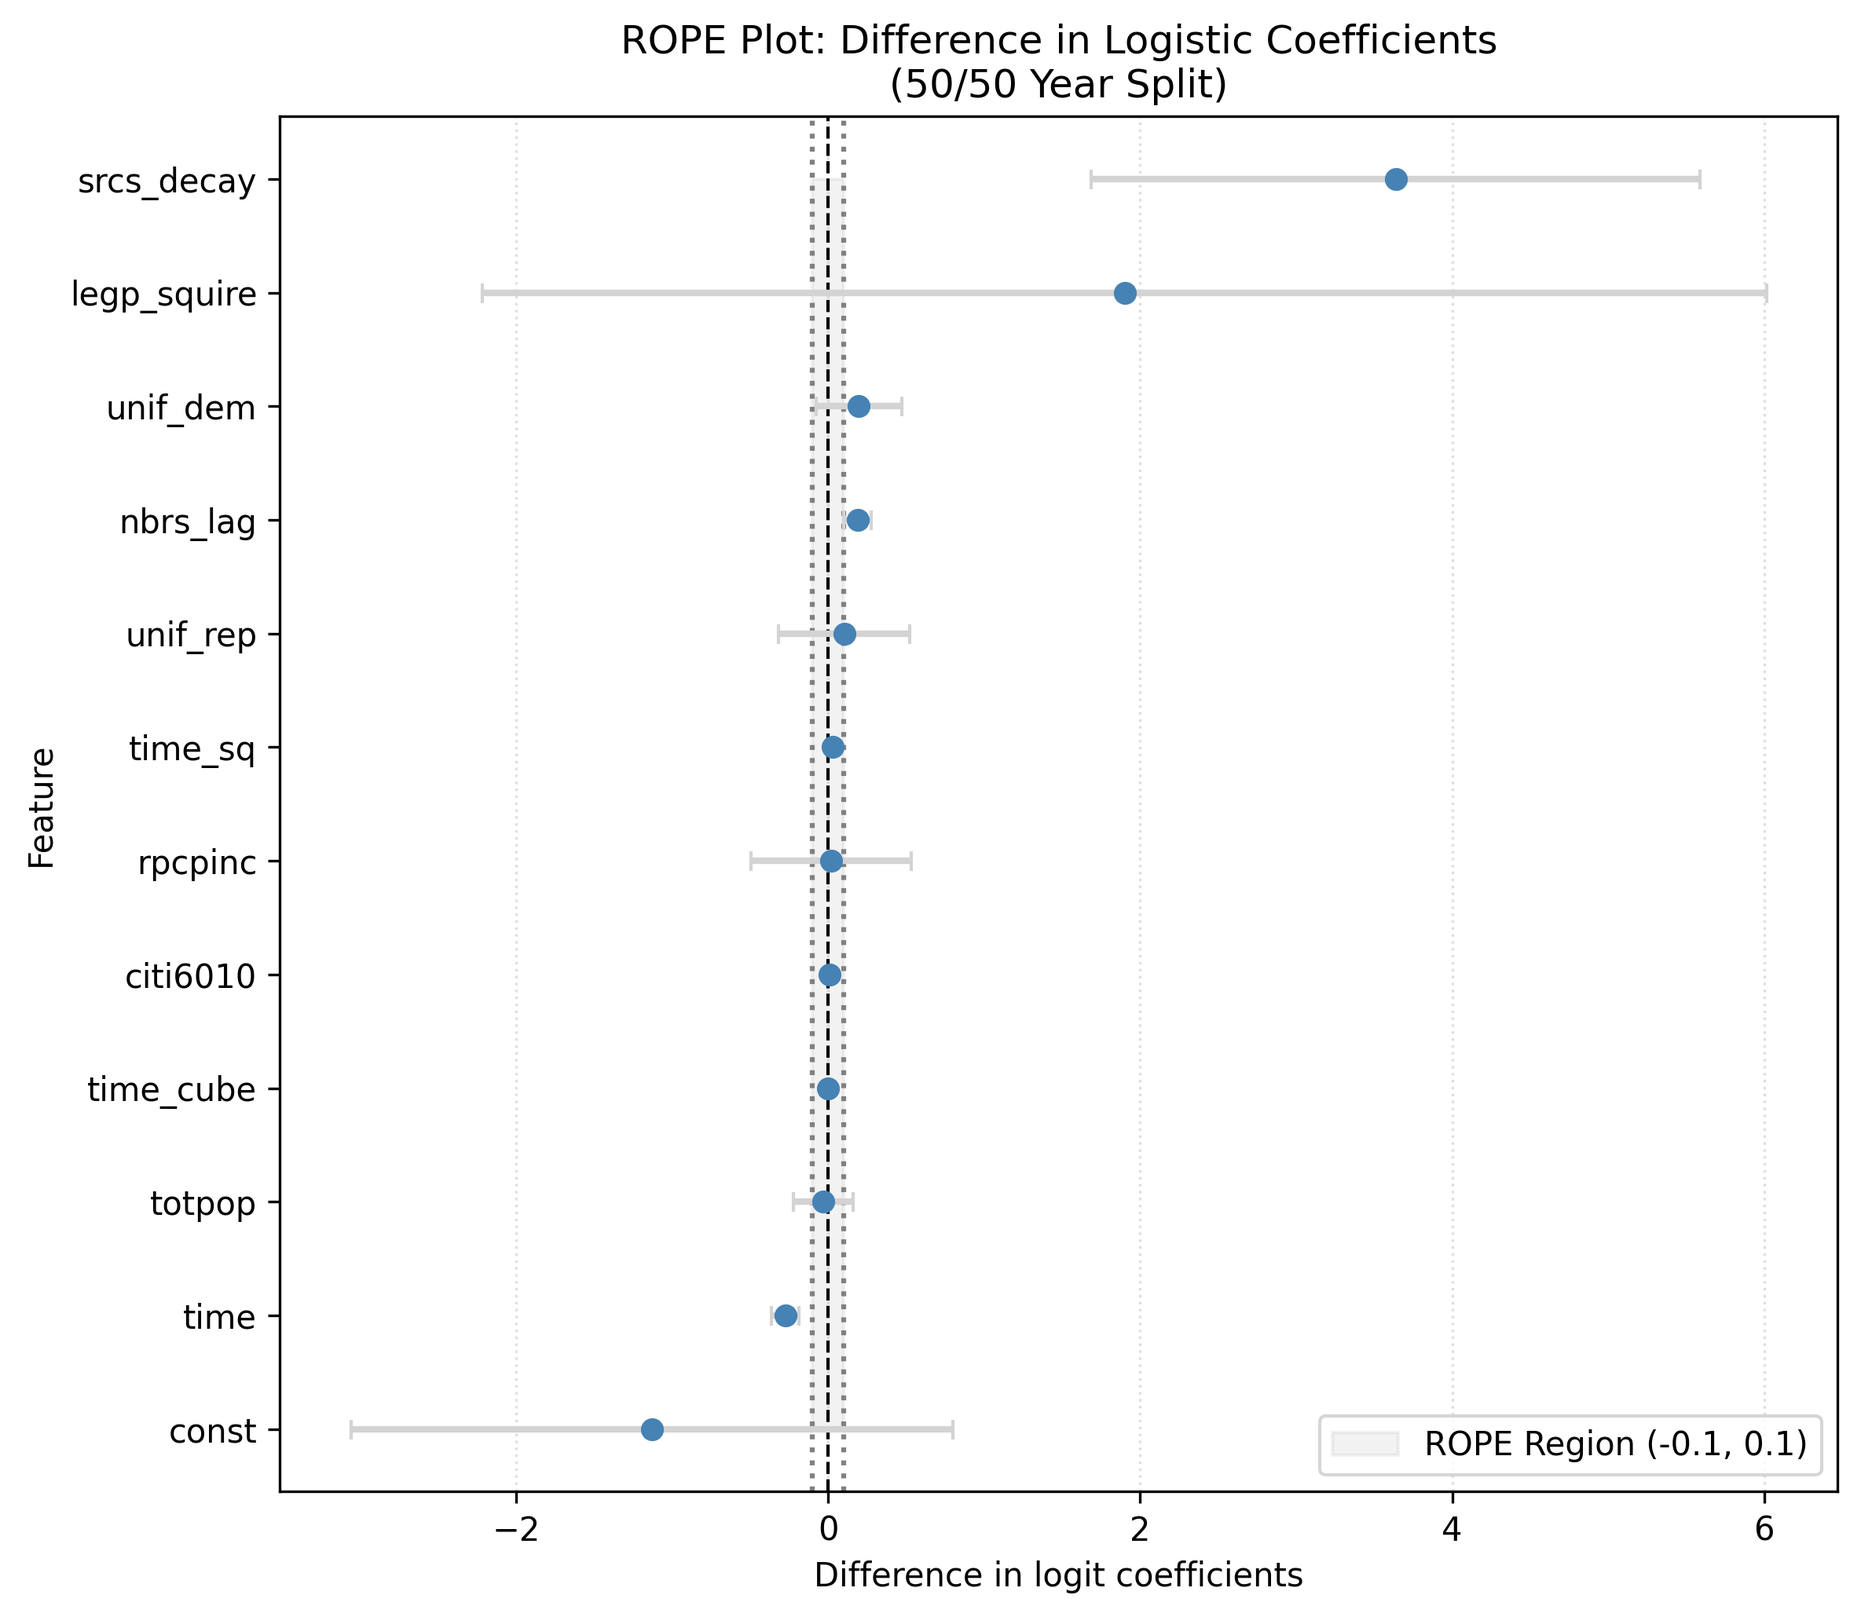
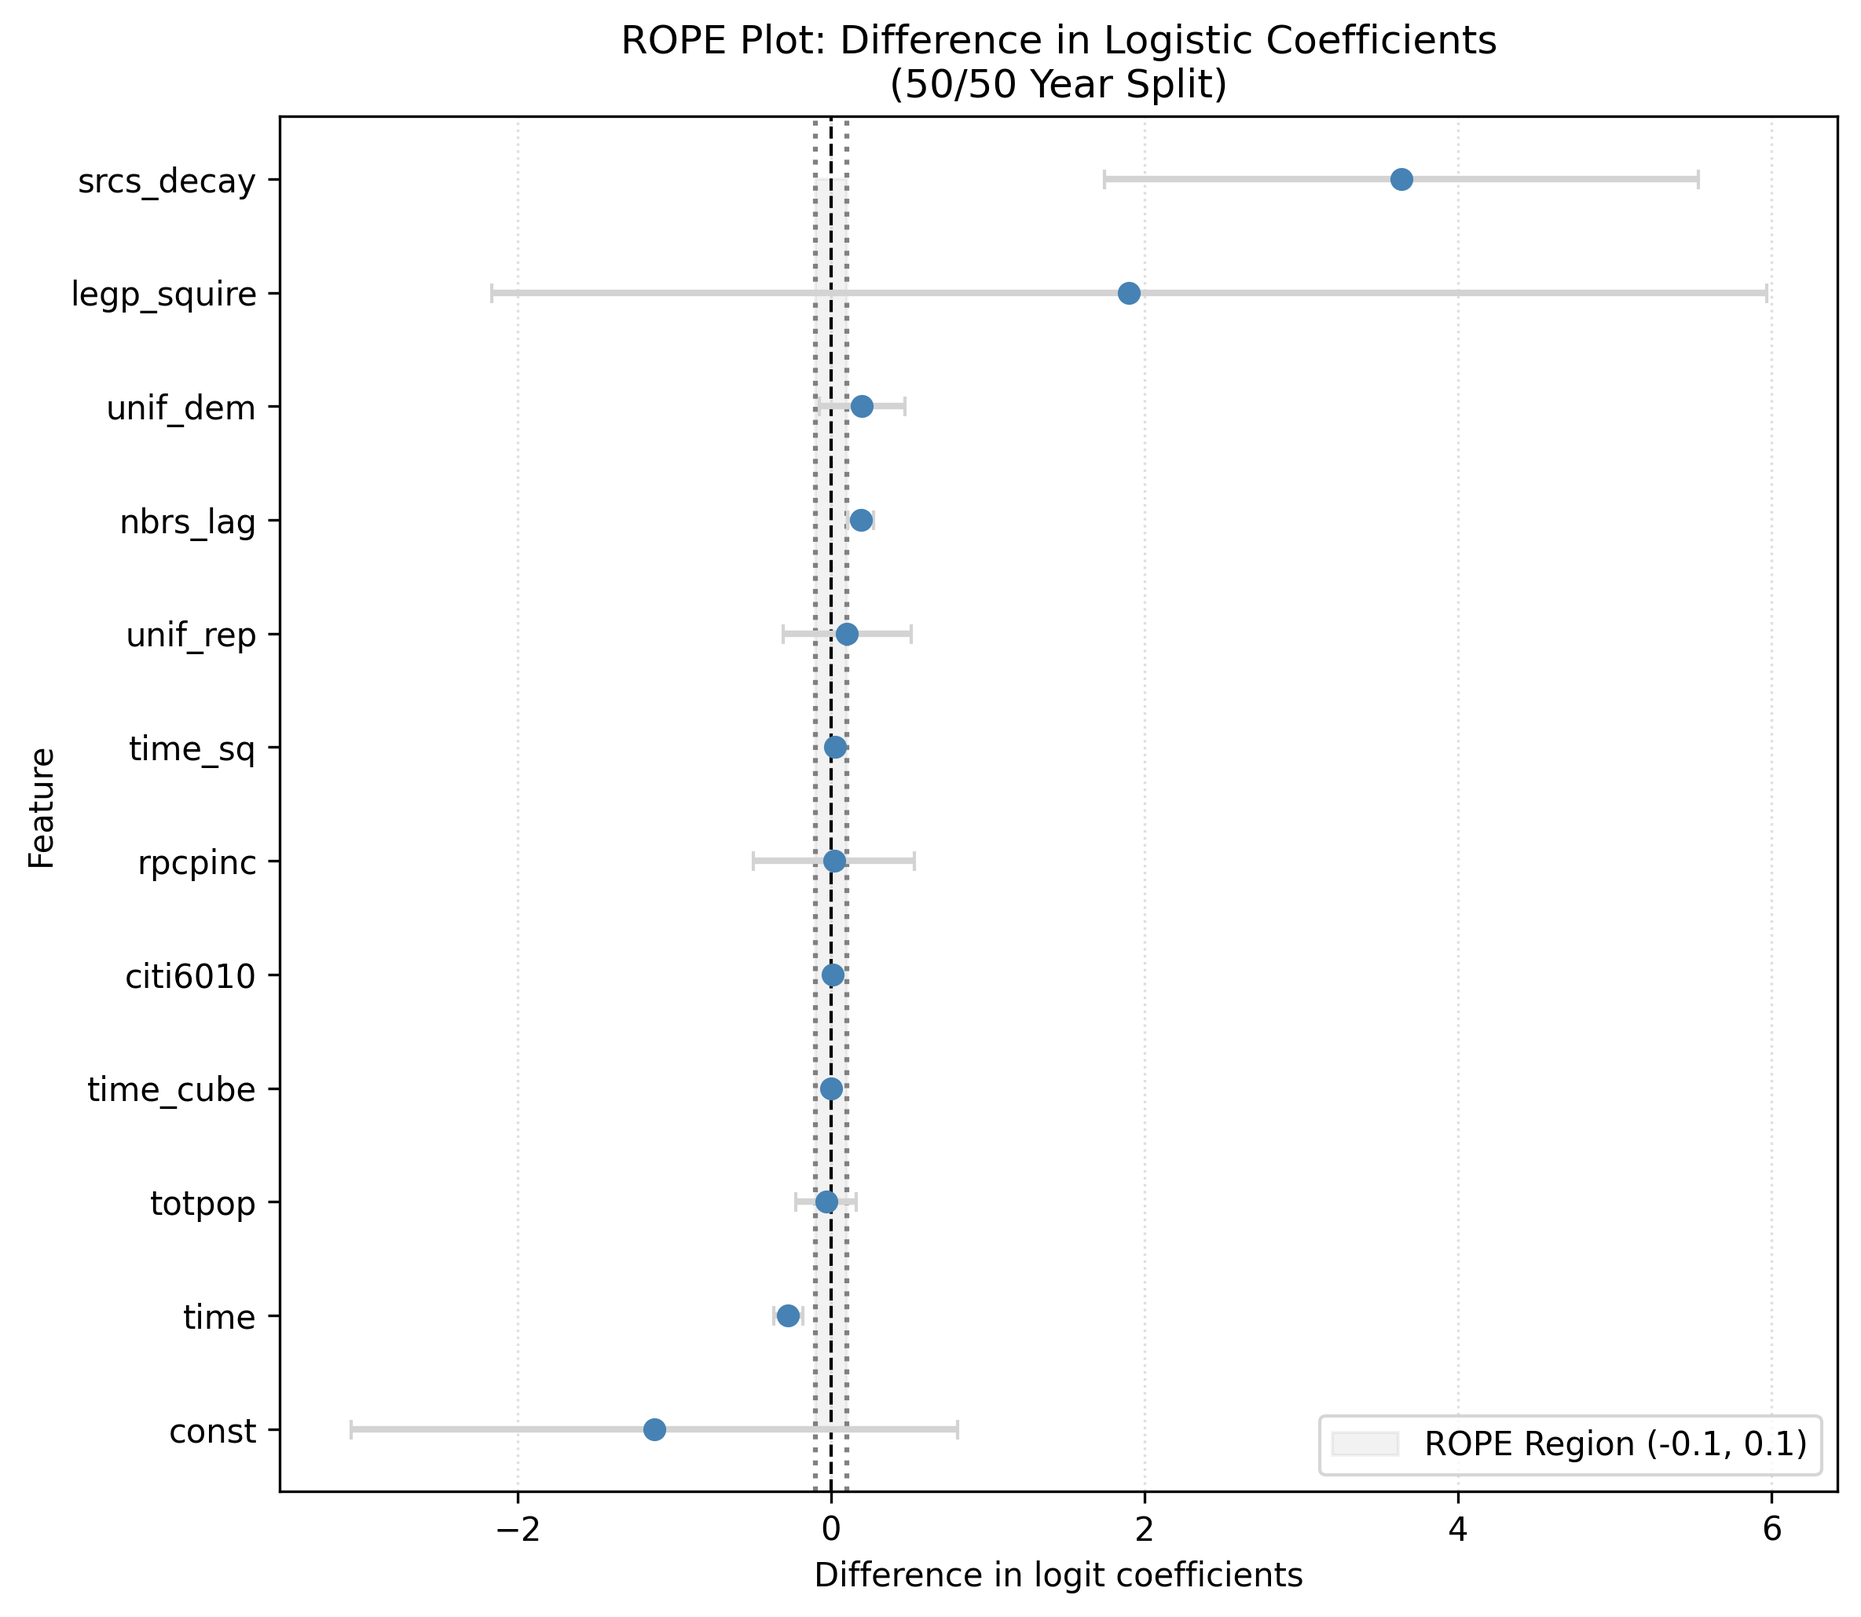
Added some coef split results.

Changed region(s): [[0.4061, 0.0622, 0.4686, 0.9325], [0.9371, 0.9325, 0.9683, 0.9636]]

diff --git a/ml_coef_split/parinandi_coef.py b/ml_coef_split/parinandi_coef.py
@@ -12,31 +12,33 @@ warnings.filterwarnings('ignore')
 random.seed(1337)
 
 # Data
-boushey_2016_full = pd.read_stata(r"data/boushey2016.dta")
+parinandi2020_full = pd.read_stata(r"data/parinandi2020.dta")
 
 os.chdir("ml_coef_split")
 
 # Covariates
-covariates = ["policycongruent","gub_election","elect2", "hvd_4yr", "fedcrime",
-                "leg_dem_per_2pty","dem_governor","insession","propneighpol",
-                "citidist","squire_prof86","citi6008","crimespendpc","crimespendpcsq",
-                "violentthousand","pctwhite","stateincpercap","logpop","counter","counter2","counter3"]
-boushey_2016 = boushey_2016_full[["state", "styear", "dvadopt", "year"] + covariates].dropna()
+covariates = [
+    "adagovideology", "citizenideology", "medianivoteshare", "partydecline", "squirescore",
+    "incunemp", "pctpercapincome", "percenturban", "ugovd", "percentfossilprod", "renergyprice11",
+    "deregulated", "geoneighborlag", "ideoneighborlag", "premulation1", "year", "featureyear"
+]
 
-# Get unique year values and split into 50/50
-unique_styears = sorted(boushey_2016['year'].unique())
+parinandi2020 = parinandi2020_full[["oneemulation"] + covariates].dropna()
+
+# Get unique year values and split into 70/30
+unique_styears = sorted(parinandi2020['year'].unique())
 n_styears = len(unique_styears)
-split_point = int(n_styears * 0.5)
+split_point = int(n_styears * 0.7)
 
 # Define ranges for each split
-first_50_styears = unique_styears[:split_point]
-last_50_styears = unique_styears[split_point:]
+first_70_styears = unique_styears[:split_point]
+last_30_styears = unique_styears[split_point:]
 
-# Split data by 50/50
+# Split data by 70/30
 splits = {
-    'First_50': boushey_2016[boushey_2016['year'].isin(first_50_styears)],
-    'Last_50': boushey_2016[boushey_2016['year'].isin(last_50_styears)],
-    'Full_Dataset': boushey_2016
+    'First_70': parinandi2020[parinandi2020['year'].isin(first_70_styears)],
+    'Last_30': parinandi2020[parinandi2020['year'].isin(last_30_styears)],
+    'Full_Dataset': parinandi2020
 }
 
 # Store results for comparison
@@ -47,7 +49,7 @@ for split_name, data in splits.items():
         # Define X and y
         X = data[covariates].copy()
         X = sm.add_constant(X)
-        y = data['dvadopt']
+        y = data['oneemulation']
         
         # Fit Logistic Regression model with clustering
         logistic = sm.Logit(y.astype(float), X.astype(float)).fit()
@@ -56,7 +58,7 @@ for split_name, data in splits.items():
         summary_df = logistic.summary2().tables[1]
         
         # Filter out dummy variables
-        summary_filtered = summary_df[~summary_df.index.str.startswith("state_")]
+        summary_filtered = summary_df[~summary_df.index.str.startswith("policy_num")]
         
         # Store coefficients and p-values
         results_dict[split_name] = {
@@ -68,8 +70,8 @@ for split_name, data in splits.items():
         }
 
 # Convert results to DataFrames
-df_first = pd.DataFrame(results_dict['First_50'])
-df_last = pd.DataFrame(results_dict['Last_50'])
+df_first = pd.DataFrame(results_dict['First_70'])
+df_last = pd.DataFrame(results_dict['Last_30'])
 
 # Merge on feature name
 coef_compare = pd.merge(
@@ -105,12 +107,12 @@ plt.errorbar(
     fmt = 'o', color = 'steelblue', ecolor = 'lightgray', elinewidth = 2, capsize = 3
 )
 
-plt.title('ROPE Plot: Difference in Logistic Coefficients\n(50/50 Year Split)')
+plt.title('ROPE Plot: Difference in Logistic Coefficients\n(70/30 Year Split)')
 plt.xlabel('Difference in logit coefficients')
 plt.ylabel('Feature')
 plt.legend(loc = 'lower right')
 plt.grid(axis = 'x', linestyle = ':', alpha = 0.4)
 plt.tight_layout()
-plt.savefig('figures/boushey2016/boushey_coef_comparison.png', dpi = 300, bbox_inches = 'tight')
+plt.savefig('figures/parinandi2020/parinandi_coef_comparison.png', dpi = 300, bbox_inches = 'tight')
 plt.show()
 

diff --git a/ml_coef_split/kreitzer_boehmke_coef.py b/ml_coef_split/kreitzer_boehmke_coef.py
@@ -12,19 +12,21 @@ warnings.filterwarnings('ignore')
 random.seed(1337)
 
 # Data
-boushey_2016_full = pd.read_stata(r"data/boushey2016.dta")
+kreitzer_boehmke_2016_full = pd.read_stata(r"data/kreitzer_boehmke2016.dta")
 
 os.chdir("ml_coef_split")
 
 # Covariates
-covariates = ["policycongruent","gub_election","elect2", "hvd_4yr", "fedcrime",
-                "leg_dem_per_2pty","dem_governor","insession","propneighpol",
-                "citidist","squire_prof86","citi6008","crimespendpc","crimespendpcsq",
-                "violentthousand","pctwhite","stateincpercap","logpop","counter","counter2","counter3"]
-boushey_2016 = boushey_2016_full[["state", "styear", "dvadopt", "year"] + covariates].dropna()
+covariates = [
+    "norrander_legality", "religadhrate", "initdif", "dem_gov", "uni_dem_leg",
+    "fem_dem", "nbrspct", "rescaledmedincome", "rescaledpopsize", "time", 
+    "time2", "webster", "policy_num"
+]
+
+kreitzer_boehmke_2016 = kreitzer_boehmke_2016_full[["adopt_policy", "state", "year"] + covariates].dropna()
 
 # Get unique year values and split into 50/50
-unique_styears = sorted(boushey_2016['year'].unique())
+unique_styears = sorted(kreitzer_boehmke_2016['year'].unique())
 n_styears = len(unique_styears)
 split_point = int(n_styears * 0.5)
 
@@ -34,9 +36,9 @@ last_50_styears = unique_styears[split_point:]
 
 # Split data by 50/50
 splits = {
-    'First_50': boushey_2016[boushey_2016['year'].isin(first_50_styears)],
-    'Last_50': boushey_2016[boushey_2016['year'].isin(last_50_styears)],
-    'Full_Dataset': boushey_2016
+    'First_50': kreitzer_boehmke_2016[kreitzer_boehmke_2016['year'].isin(first_50_styears)],
+    'Last_50': kreitzer_boehmke_2016[kreitzer_boehmke_2016['year'].isin(last_50_styears)],
+    'Full_Dataset': kreitzer_boehmke_2016
 }
 
 # Store results for comparison
@@ -46,8 +48,9 @@ results_dict = {}
 for split_name, data in splits.items():
         # Define X and y
         X = data[covariates].copy()
+        X = pd.get_dummies(X, columns = ['policy_num'], drop_first = True)
         X = sm.add_constant(X)
-        y = data['dvadopt']
+        y = data['adopt_policy']
         
         # Fit Logistic Regression model with clustering
         logistic = sm.Logit(y.astype(float), X.astype(float)).fit()
@@ -56,7 +59,7 @@ for split_name, data in splits.items():
         summary_df = logistic.summary2().tables[1]
         
         # Filter out dummy variables
-        summary_filtered = summary_df[~summary_df.index.str.startswith("state_")]
+        summary_filtered = summary_df[~summary_df.index.str.startswith("policy_num")]
         
         # Store coefficients and p-values
         results_dict[split_name] = {
@@ -111,6 +114,6 @@ plt.ylabel('Feature')
 plt.legend(loc = 'lower right')
 plt.grid(axis = 'x', linestyle = ':', alpha = 0.4)
 plt.tight_layout()
-plt.savefig('figures/boushey2016/boushey_coef_comparison.png', dpi = 300, bbox_inches = 'tight')
+plt.savefig('figures/kreitzer_boehmke2016/kreitzer_coef_comparison.png', dpi = 300, bbox_inches = 'tight')
 plt.show()
 

diff --git a/ml_coef_split/mallinson_coef.py b/ml_coef_split/mallinson_coef.py
@@ -12,19 +12,18 @@ warnings.filterwarnings('ignore')
 random.seed(1337)
 
 # Data
-boushey_2016_full = pd.read_stata(r"data/boushey2016.dta")
+mallinson_2019_full = pd.read_csv(r"data/mallinson2019.csv")
 
 os.chdir("ml_coef_split")
 
 # Covariates
-covariates = ["policycongruent","gub_election","elect2", "hvd_4yr", "fedcrime",
-                "leg_dem_per_2pty","dem_governor","insession","propneighpol",
-                "citidist","squire_prof86","citi6008","crimespendpc","crimespendpcsq",
-                "violentthousand","pctwhite","stateincpercap","logpop","counter","counter2","counter3"]
-boushey_2016 = boushey_2016_full[["state", "styear", "dvadopt", "year"] + covariates].dropna()
+covariates = ["neighbor_prop", "ideology_relative_hm", "congress_majortopic", "init_avail", "init_qual", "divided_gov",
+              "legprof_squire", "percap_log", "population_log", "mip", "complexity_topic", "mip_complexity_topic", "nyt", "year_count", "time_log"]
+
+mallinson_2019 = mallinson_2019_full[["adopt", "year"] + covariates].dropna()
 
 # Get unique year values and split into 50/50
-unique_styears = sorted(boushey_2016['year'].unique())
+unique_styears = sorted(mallinson_2019['year'].unique())
 n_styears = len(unique_styears)
 split_point = int(n_styears * 0.5)
 
@@ -34,9 +33,9 @@ last_50_styears = unique_styears[split_point:]
 
 # Split data by 50/50
 splits = {
-    'First_50': boushey_2016[boushey_2016['year'].isin(first_50_styears)],
-    'Last_50': boushey_2016[boushey_2016['year'].isin(last_50_styears)],
-    'Full_Dataset': boushey_2016
+    'First_50': mallinson_2019[mallinson_2019['year'].isin(first_50_styears)],
+    'Last_50': mallinson_2019[mallinson_2019['year'].isin(last_50_styears)],
+    'Full_Dataset': mallinson_2019
 }
 
 # Store results for comparison
@@ -47,7 +46,7 @@ for split_name, data in splits.items():
         # Define X and y
         X = data[covariates].copy()
         X = sm.add_constant(X)
-        y = data['dvadopt']
+        y = data['adopt']
         
         # Fit Logistic Regression model with clustering
         logistic = sm.Logit(y.astype(float), X.astype(float)).fit()
@@ -56,7 +55,7 @@ for split_name, data in splits.items():
         summary_df = logistic.summary2().tables[1]
         
         # Filter out dummy variables
-        summary_filtered = summary_df[~summary_df.index.str.startswith("state_")]
+        summary_filtered = summary_df[~summary_df.index.str.startswith("policy_num")]
         
         # Store coefficients and p-values
         results_dict[split_name] = {
@@ -111,6 +110,6 @@ plt.ylabel('Feature')
 plt.legend(loc = 'lower right')
 plt.grid(axis = 'x', linestyle = ':', alpha = 0.4)
 plt.tight_layout()
-plt.savefig('figures/boushey2016/boushey_coef_comparison.png', dpi = 300, bbox_inches = 'tight')
+plt.savefig('figures/mallinson2019/mallinson_coef_comparison.png', dpi = 300, bbox_inches = 'tight')
 plt.show()
 

diff --git a/ml_coef_split/karch_coef.py b/ml_coef_split/karch_coef.py
@@ -12,19 +12,26 @@ warnings.filterwarnings('ignore')
 random.seed(1337)
 
 # Data
-boushey_2016_full = pd.read_stata(r"data/boushey2016.dta")
+karch_2016_full = pd.read_stata(r"data/karch2016.dta")
 
 os.chdir("ml_coef_split")
 
 # Covariates
-covariates = ["policycongruent","gub_election","elect2", "hvd_4yr", "fedcrime",
-                "leg_dem_per_2pty","dem_governor","insession","propneighpol",
-                "citidist","squire_prof86","citi6008","crimespendpc","crimespendpcsq",
-                "violentthousand","pctwhite","stateincpercap","logpop","counter","counter2","counter3"]
-boushey_2016 = boushey_2016_full[["state", "styear", "dvadopt", "year"] + covariates].dropna()
+covariates = [
+    "traditional", "nborsstd", "prevadoptstd", "complexity", "igrole",
+    "regov", "unified", "perdemstd", "incpcadjstd", "exppcadjstd",
+    "logpopstd", "collegstd", "perurbanstd", "profstd",
+    "traditional_nborsstd", "traditional_prevadoptstd", "traditional_complexity",
+    "traditional_igrole", "traditional_regov", "traditional_unified",
+    "traditional_perdemstd", "traditional_incpcadjstd", "traditional_exppcadjstd",
+    "traditional_logpopstd", "traditional_collegstd", "traditional_perurbanstd",
+    "traditional_profstd"
+]
+
+karch_2016 = karch_2016_full[["adopt", "state", "year"] + covariates].dropna()
 
 # Get unique year values and split into 50/50
-unique_styears = sorted(boushey_2016['year'].unique())
+unique_styears = sorted(karch_2016['year'].unique())
 n_styears = len(unique_styears)
 split_point = int(n_styears * 0.5)
 
@@ -34,9 +41,9 @@ last_50_styears = unique_styears[split_point:]
 
 # Split data by 50/50
 splits = {
-    'First_50': boushey_2016[boushey_2016['year'].isin(first_50_styears)],
-    'Last_50': boushey_2016[boushey_2016['year'].isin(last_50_styears)],
-    'Full_Dataset': boushey_2016
+    'First_50': karch_2016[karch_2016['year'].isin(first_50_styears)],
+    'Last_50': karch_2016[karch_2016['year'].isin(last_50_styears)],
+    'Full_Dataset': karch_2016
 }
 
 # Store results for comparison
@@ -47,7 +54,7 @@ for split_name, data in splits.items():
         # Define X and y
         X = data[covariates].copy()
         X = sm.add_constant(X)
-        y = data['dvadopt']
+        y = data['adopt']
         
         # Fit Logistic Regression model with clustering
         logistic = sm.Logit(y.astype(float), X.astype(float)).fit()
@@ -111,6 +118,6 @@ plt.ylabel('Feature')
 plt.legend(loc = 'lower right')
 plt.grid(axis = 'x', linestyle = ':', alpha = 0.4)
 plt.tight_layout()
-plt.savefig('figures/boushey2016/boushey_coef_comparison.png', dpi = 300, bbox_inches = 'tight')
+plt.savefig('figures/karch2016/karch_coef_comparison.png', dpi = 300, bbox_inches = 'tight')
 plt.show()
 

diff --git a/ml_coef_split/berry_berry_coef.py b/ml_coef_split/berry_berry_coef.py
@@ -12,19 +12,17 @@ warnings.filterwarnings('ignore')
 random.seed(1337)
 
 # Data
-boushey_2016_full = pd.read_stata(r"data/boushey2016.dta")
+berry_berry1990_full = pd.read_csv("data/berry_berry1990.txt", delim_whitespace = True, header = None)
 
 os.chdir("ml_coef_split")
 
 # Covariates
-covariates = ["policycongruent","gub_election","elect2", "hvd_4yr", "fedcrime",
-                "leg_dem_per_2pty","dem_governor","insession","propneighpol",
-                "citidist","squire_prof86","citi6008","crimespendpc","crimespendpcsq",
-                "violentthousand","pctwhite","stateincpercap","logpop","counter","counter2","counter3"]
-boushey_2016 = boushey_2016_full[["state", "styear", "dvadopt", "year"] + covariates].dropna()
+berry_berry1990_full.columns = ["state", "year", "adopt", "fiscal_1", "party", "elect1", "elect2", "income_1", "neighbor", "nbrpercn", "religion"]
+
+berry_berry1990 = berry_berry1990_full[berry_berry1990_full['party'] != 9].copy() # 9 is the NA (For MN and NE)
 
 # Get unique year values and split into 50/50
-unique_styears = sorted(boushey_2016['year'].unique())
+unique_styears = sorted(berry_berry1990['year'].unique())
 n_styears = len(unique_styears)
 split_point = int(n_styears * 0.5)
 
@@ -34,9 +32,9 @@ last_50_styears = unique_styears[split_point:]
 
 # Split data by 50/50
 splits = {
-    'First_50': boushey_2016[boushey_2016['year'].isin(first_50_styears)],
-    'Last_50': boushey_2016[boushey_2016['year'].isin(last_50_styears)],
-    'Full_Dataset': boushey_2016
+    'First_50': berry_berry1990[berry_berry1990['year'].isin(first_50_styears)],
+    'Last_50': berry_berry1990[berry_berry1990['year'].isin(last_50_styears)],
+    'Full_Dataset': berry_berry1990
 }
 
 # Store results for comparison
@@ -45,9 +43,9 @@ results_dict = {}
 # Run logistic regression for each split
 for split_name, data in splits.items():
         # Define X and y
-        X = data[covariates].copy()
+        X = data.drop(columns = ['adopt', 'neighbor', 'state', 'year'])
         X = sm.add_constant(X)
-        y = data['dvadopt']
+        y = data['adopt']
         
         # Fit Logistic Regression model with clustering
         logistic = sm.Logit(y.astype(float), X.astype(float)).fit()
@@ -111,6 +109,6 @@ plt.ylabel('Feature')
 plt.legend(loc = 'lower right')
 plt.grid(axis = 'x', linestyle = ':', alpha = 0.4)
 plt.tight_layout()
-plt.savefig('figures/boushey2016/boushey_coef_comparison.png', dpi = 300, bbox_inches = 'tight')
+plt.savefig('figures/berry_berry1990/berry_coef_comparison.png', dpi = 300, bbox_inches = 'tight')
 plt.show()
 

diff --git a/ml_coef_split/boehmke_coef.py b/ml_coef_split/boehmke_coef.py
@@ -49,16 +49,12 @@ for split_name, data in splits.items():
         y = data['adopt']
         
         # Fit Logistic Regression model with clustering
-        logistic = sm.Logit(y.astype(float), X.astype(float)).fit(
-            cov_type = "cluster", 
-            cov_kwds = {'groups': data['statepol']}, 
-            disp = 0
-        )
+        logistic = sm.Logit(y.astype(float), X.astype(float)).fit()
         
         # Extract summary table
         summary_df = logistic.summary2().tables[1]
         
-        # Filter out state dummy variables
+        # Filter out dummy variables
         summary_filtered = summary_df[~summary_df.index.str.startswith("state_")]
         
         # Store coefficients and p-values
